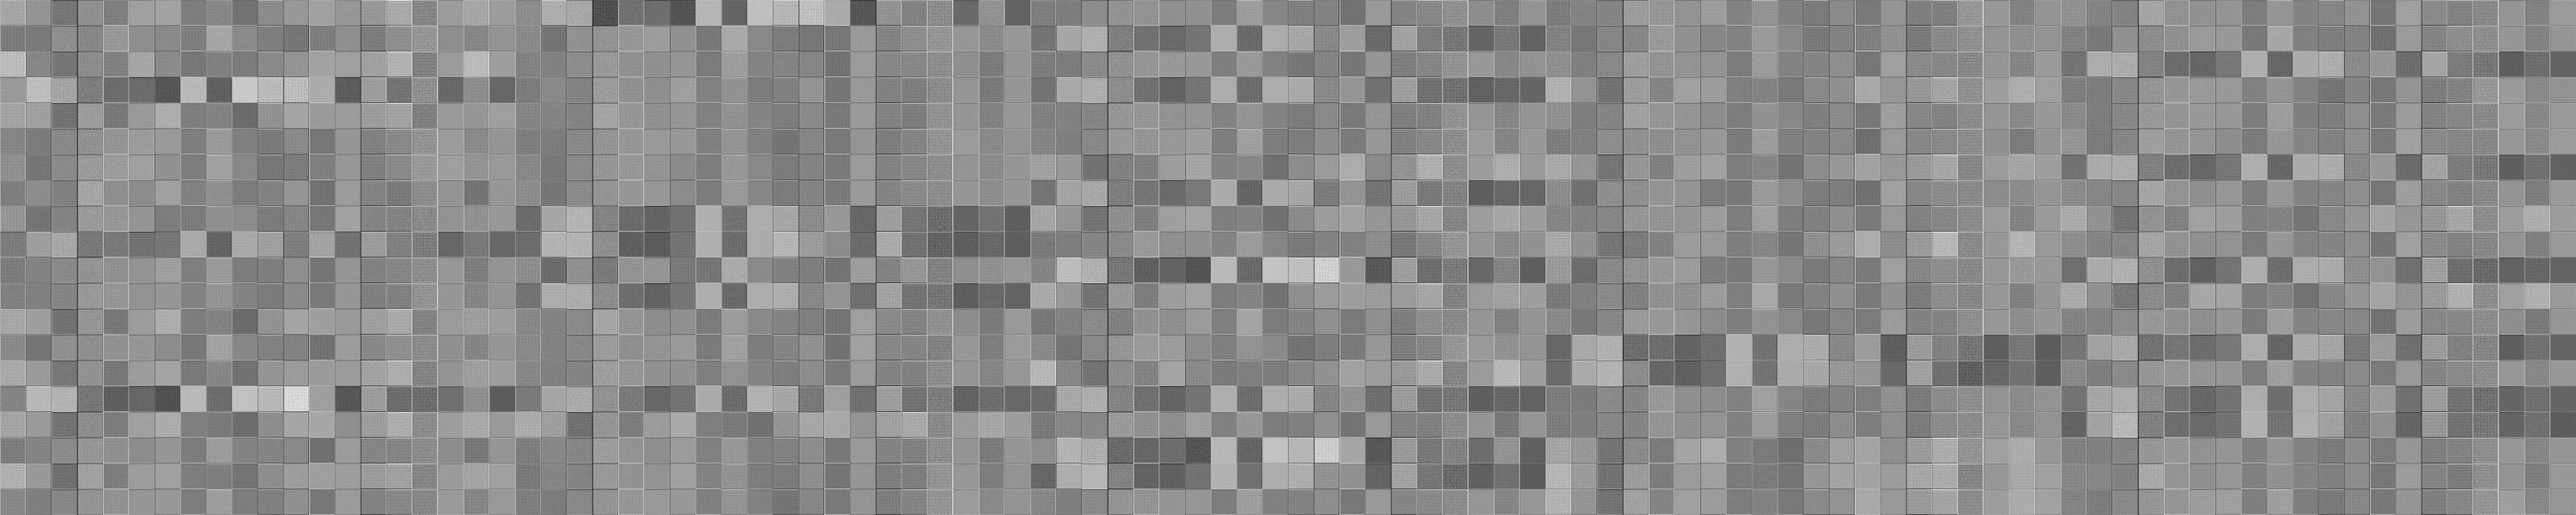
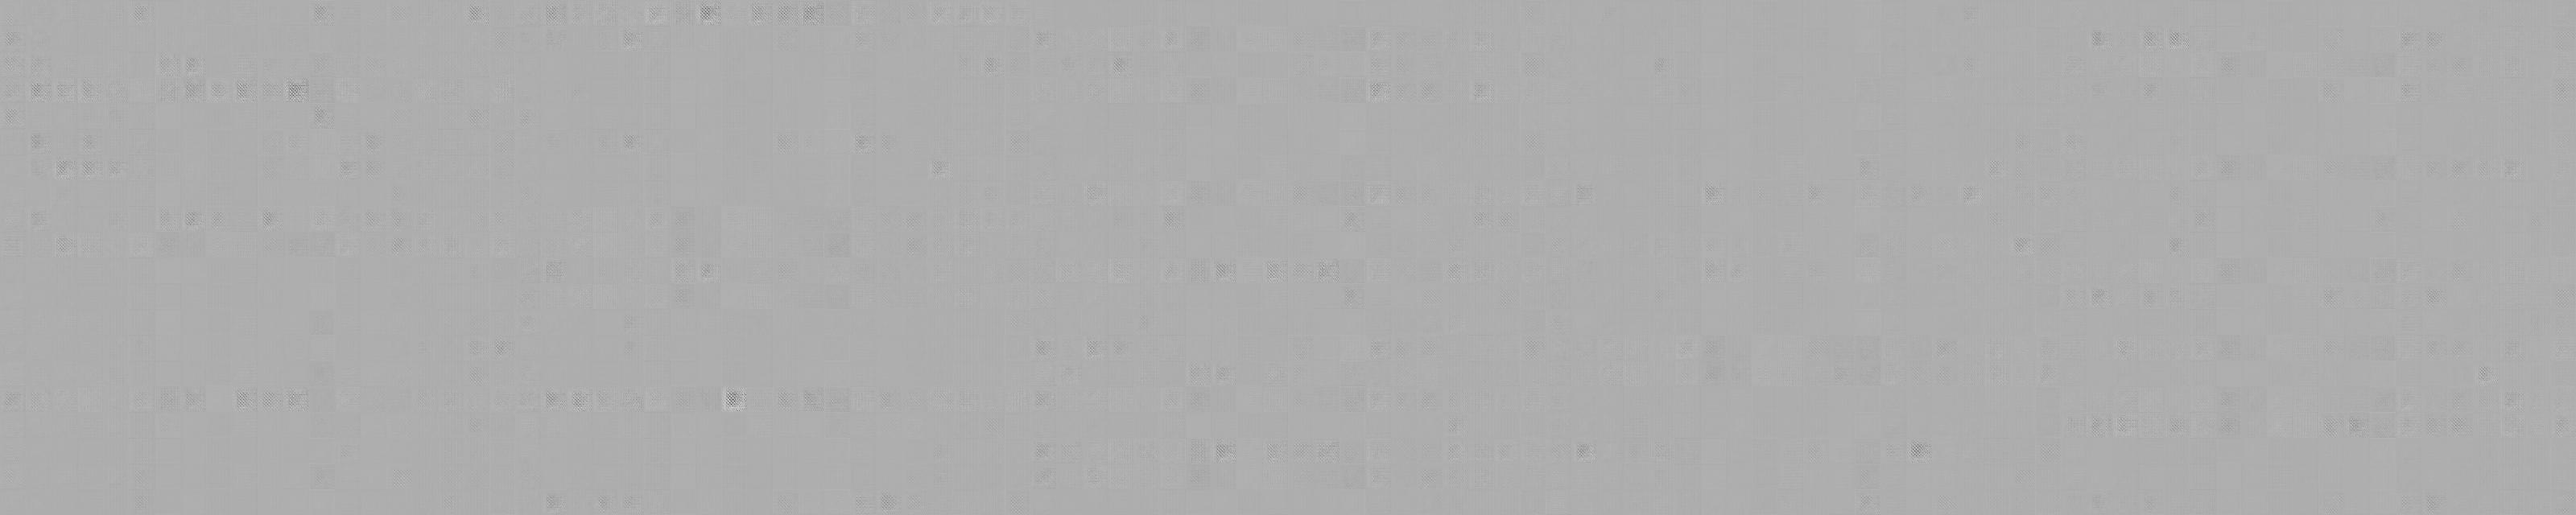
Work update

diff --git a/saver.py b/saver.py
@@ -5,7 +5,7 @@ import time
 
 start = 0
 current = 0
-num = 200
+num = 100
 
 def generate_next_batch(frames,batch_size,start, current):
 	global images_train, text_train,num
@@ -25,24 +25,20 @@ def load_batches(num,batch_size,start, current):
 	img = np.load(image)
 	for i in range(num-1):
 		image = "bouncing_data/image_%d.npy"%(start+i+2)
-		# print(image)
+		print(image)
 		text_file = "bouncing_data/text_%d.npy"%(start+i+2)
 		t2 = np.load(text_file)
 		im2 = np.load(image)
 		img = np.concatenate([img,im2],axis=0)
 		t = np.concatenate([t,t2],axis=0)
-	im = np.ndarray(shape=[num*5,img.shape[1],32,32,1])
-	for i in range(img.shape[0]):
-		for j in range(img.shape[1]):
-			im[i,j] = scipy.misc.imresize(img[i,j].reshape([64,64]),(32,32)).reshape([32,32,1])
 	start += num
 	if start > 50000:
 		start = 0
 		current = 0
-	return im, t, start,current
+	return img, t, start,current
 
 def save_visualization(X,ep,nh_nw=(20,100),batch_size = 100, frames=20):
-	h,w = 32,32
+	h,w = 64,64
 	Y = X.reshape(batch_size*frames, h,w,1)
 	image = np.zeros([h*nh_nw[0], w*nh_nw[1],3])
 	for n,x in enumerate(Y):
@@ -65,4 +61,5 @@ epoch = 200
 frames = 20
 
 sample_video, sample_text,start, current = generate_next_batch(20,batch_size,start,current)
+print("Saving")
 save_visualization(sample_video,-1)

diff --git a/lstmgan_alt.py b/lstmgan_alt.py
@@ -265,7 +265,7 @@ def save_visualization(X,ep,nh_nw=(20,25),batch_size = 25, frames=20):
 		j = n // nh_nw[1]
 		i = n % nh_nw[1]
 		image[j*h:j*h + h, i*w:i*w + w,:] = x
-	scipy.misc.imsave(("bouncingmnist/sample_%d.jpg"%(ep+1)),image)
+	scipy.misc.imsave(("bouncingalternate/sample_%d.jpg"%(ep+1)),image)
 
 
 batch_size = 25
@@ -288,7 +288,7 @@ with tf.device("/gpu:1"):
 
 embedding_size = 96
 text_embedding_size = 150
-num_examples = 500
+num_examples = 2000
 epoch = 50
 frames = 20
 
